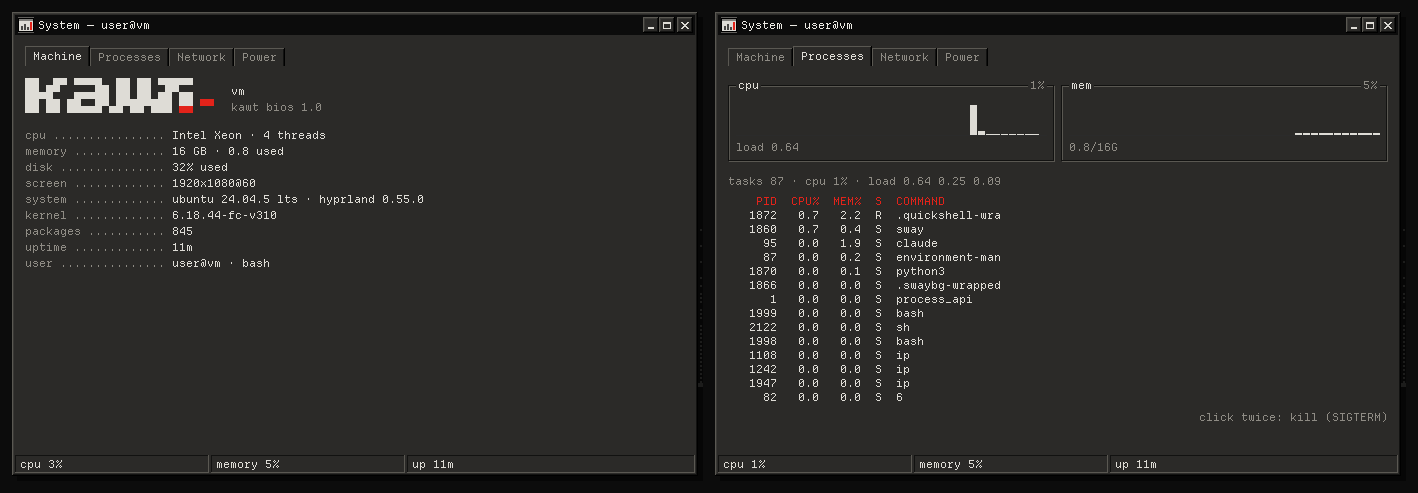
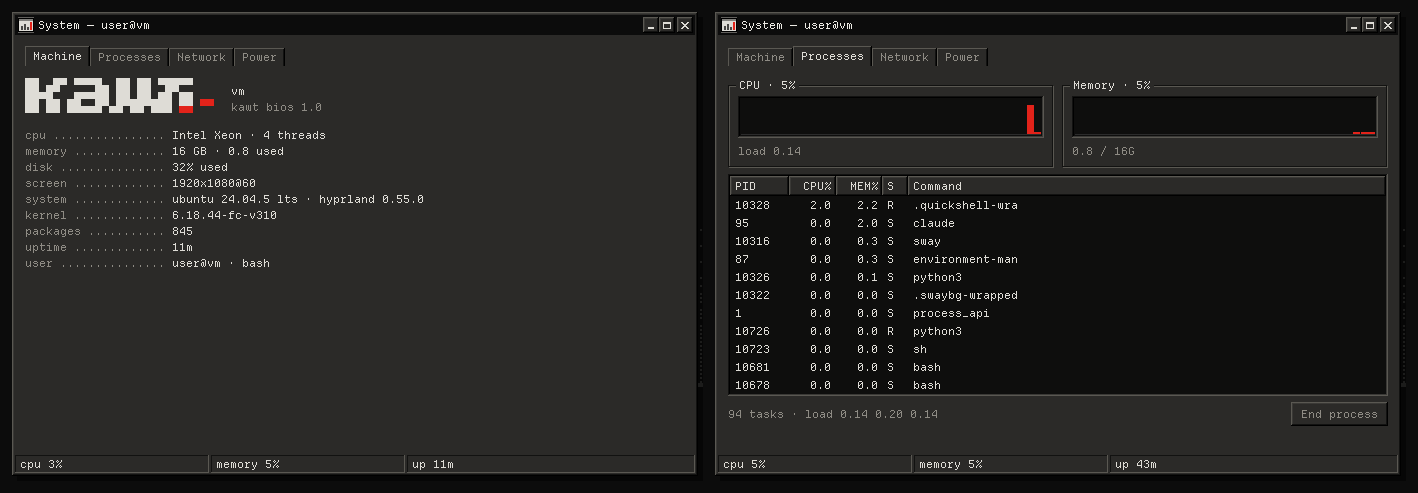
readme: the run box, the ai panel, help and keys, the monitors in the installer, fastfetch; new pictures

Changed region(s): [[0.4965, 0.1521, 0.9929, 0.8824]]

diff --git a/README.md b/README.md
@@ -85,13 +85,21 @@ windows the buttons give up their titles first, then the rest go into `+3 ▼`.
 and keys**, **AI**, **stripes**, and **Shut down…** at the bottom. Typing searches at once;
 `enter` on something not found runs it, or asks the ai.
 
-The launcher alone is `super + space`, with modes: apps · `!` run · `>` in terminal · `=`
-calculator · `?` ask the ai · `$` a command from the ai · `:` clipboard history · `;` open
-windows · `.` emoji. Typed in the wrong layout, it still finds it (`ашкуащч` → firefox). An
-app's own actions by name (`private` → Firefox: New Private Window); `ctrl + s` pins, `ctrl + o`
-starts an app without internet from then on. With `qalc` the calculator does units, currencies
-and dates (`=10 km to mi`, `=today + 3 weeks`; exchange rates only the ones qalc has: kawt
-never makes it go online).
+<p align="center">
+<img src="assets/run.png" alt="the run box: programs with the list of modes open; the calculator's answer big in the field" width="100%">
+</p>
+
+**The run box** (`super + space`) is the old Run window, in the middle of the screen: the mode
+is a drop-down list on the right of the field (`tab` the next one, `alt + ↓` the list), or a
+prefix typed straight in: `!` a command (`shift + enter` runs it in a terminal; the ones you ran
+come back as a history) · `=` the calculator · `?` a short answer from the ai (`enter` again:
+the whole talk in the ai panel) · `$` a command from the ai · `:` the clipboard, pictures with a
+preview · `;` open windows · `.` emoji. The calculator's and the ai's answers come big in the
+field, not as a line of a list; the status bar under it says what the keys do. Typed in the
+wrong layout, it still finds it (`ашкуащч` → firefox). An app's own actions by name (`private` →
+Firefox: New Private Window); `ctrl + s` pins, `ctrl + o` starts an app without internet from
+then on. With `qalc` the calculator does units, currencies and dates (`=10 km to mi`,
+`=today + 3 weeks`; exchange rates only the ones qalc has: kawt never makes it go online).
 
 ## Floating desks
 
@@ -143,7 +151,7 @@ the battery stops charging (full / 80% / 60%), the power profile, the keyboard l
 where the machine has it. `qs -c kawt-shell ipc call kawt window system net` opens it at a tab.
 
 <p align="center">
-<img src="assets/system.png" alt="system: the machine like a bios setup, and the processes with cpu and memory graphs" width="100%">
+<img src="assets/system.png" alt="system: the machine like a bios setup, and the processes in a table under the cpu and memory graphs, End process" width="100%">
 </p>
 
 **Settings** (`super + ,`) is one window too, its pages in a list on the left: look, bar, screen
@@ -219,31 +227,34 @@ gives her more, in english). Off in settings → kawt: then nothing runs for her
 <table>
 <tr>
 <td width="34%" valign="top">
-<img src="assets/ai-panel.png" alt="the ai panel: a local model, chat in the terminal look"><br>
+<img src="assets/ai-panel.png" alt="the ai panel: a window at the screen's edge, tabs, a chat with a code block to copy"><br>
 <sub>a local model: nothing leaves the machine</sub>
 </td>
 <td valign="top">
 
-`super + a` (or start → AI): chat with a local [ollama](https://ollama.com) model (or any
-OpenAI-compatible api), saved chats, markdown answers with code to copy, compare two models;
-models installed, pulled and unloaded from the panel, with limits so it doesn't eat the machine.
+`super + a` (or start → AI): a kawt window at the screen's edge (`□` makes it wide, with the
+project's files on the left), tabs **Chat · Chats · Models · Settings** (`ctrl + tab` walks
+them). Chat with a local [ollama](https://ollama.com) model (or any OpenAI-compatible api),
+saved chats, markdown answers with code to copy, compare two models; models installed, pulled
+and unloaded from the panel, with limits so it doesn't eat the machine.
 
-- `?question` in the launcher, `$what you want` for one shell command (it never runs by
-  itself), `super + alt + a` on the text you marked in any window
-- a screenshot's `[ask]` brings the picture to a model that sees
-- `[x] tasks` gives it your todo list ("what's on tomorrow?")
-- `super + alt + v`: speak, `whisper-cpp` writes it down on this machine
+- `?question` in the run box for a short answer, `$what you want` for one shell command (it
+  never runs by itself), `super + alt + a` on the text you marked in any window
+- **Copied:** Explain · Translate · Fix · Summary, one click on what's on the clipboard
+- a screenshot's **Ask AI** brings the picture to a model that sees
+- **my tasks** gives it your todo list ("what's on tomorrow?")
+- `super + alt + v`, or **Mic**: speak, `whisper-cpp` writes it down on this machine
 
 </td>
 </tr>
 </table>
 
 **coder**: an agent in one project folder. It lists, searches and reads; every change is a diff
-to `[apply]` or `[skip]`; commands (with `bubblewrap`) run only after `[run]`, in a sandbox
+to **Apply** or **Skip**; commands (with `bubblewrap`) run only after **Run**, in a sandbox
 without network where the project is the only place it can write, and what they changed is
 listed file by file (with `git`: kawt keeps its own copy in `~/.cache`, never touching the
-project's `.git`; what `.gitignore` hides isn't watched). `[changes]` shows every file it changed
-as a diff, each with its own `[undo]`; `[undo]` puts everything back.
+project's `.git`; what `.gitignore` hides isn't watched). **Changes** shows every file it changed
+as a diff, each with its own **Undo**; **Undo** puts everything back.
 
 ## Lock and boot
 
@@ -275,15 +286,16 @@ Once per login a bios-like check list runs (`kawt bios 1.0 ·` your machine: cpu
 | | |
 |---|---|
 | player | the tray's note while music plays (real sound with `cava`); click: the cover in big pixels, a level-meter spectrum, `|<` `||` `>|`, the position, shuffle, loop, the player's own volume, tabs when several play, this session's tracks |
-| screenshots | area / window / screen, the screen still while you pick; a preview asks `[copy]` `[save]` `[open]` `[edit]` (`satty`) `[text]` (`tesseract`) `[ask]` (the ai) |
+| screenshots | area / window / screen, the screen still while you pick; a small window in the corner: **Copy**, **Save**, **Open**, **Draw on it** (`satty`), **Text** (`tesseract`), **Ask AI** |
 | recording | the tray's red dot and the time; area or screen; sound: off, the mic, what you hear, or both |
-| osd | volume / brightness pop up; the charger in or out shows the battery; low battery at 20 / 10 / 5% |
+| osd | a raised plate with red segments for the volume and the brightness; the charger in or out shows the battery; low battery at 20 / 10 / 5% |
 | notifications | kawt is the daemon: a history, do not disturb, keeps what the app asks for (`notify-send -t`, `-e` transient, replace tags) |
 | theme export | a theme switch recolors open terminals and GTK apps live and rewrites colors for kitty, Hyprland's borders, GTK, foot, alacritty, shell scripts and kawt's folder icons; terminal colors as `crt`, `soft` or `vivid` |
-| fastfetch | your system's logo in its own colors (or the theme's), or kawt in blocks, the trackpoint, kawt in stripes; full keys, memory and disk as bars; nothing that says who or where you are, safe to screenshot |
+| fastfetch | `kawt · arch linux` on top, then the system in full words, memory and disk as bars; your system's logo in its own colors (or the theme's), kawt in blocks, the trackpoint, kawt in stripes, or a picture (stripes, `~/.face`, one of yours) dithered in the theme's tones, drawn by kitty; a narrow window gets the small logo. Nothing that says who or where you are, safe to screenshot |
 | prompt | zsh: the folder inverted like a bios's chosen line, the git branch on grey, a failed command's code on red, `>` in red where you type; hints from history, typos marked |
 | old machine | settings → look: no blur, shadows or animations, graphs half as often, no visualizer (a T60, an X200); `scanlines` for faint tube lines |
-| also | night light (`hyprsunset`), volume per app, brightness (on a desktop the monitors' own, over DDC/CI), the keyboard layout (one per window if you like), the keys of the whole desktop on `super + /` |
+| keys | `super + /`: every key of the desktop in a window, tabs **kawt · Hyprland · Inside kawt**, a search across all three |
+| also | night light (`hyprsunset`), volume per app, brightness (on a desktop the monitors' own, over DDC/CI), the keyboard layout (one per window if you like), a theme of your own (`super + w` → Theme → New…, a little desktop drawn in its colors as you type) |
 
 Works on a laptop and a desktop alike: what a machine doesn't have (a battery, a backlight,
 power profiles, charge thresholds, a keyboard light) simply doesn't show.
@@ -347,13 +359,20 @@ setup to a backup, every question again).
   the two binds kawt uses (`super + r`, `super + shift + s`)
 - keyboard layouts next to `us` (`alt + shift` switches; it offers the ones of your old config,
   or guesses from your language, `ru_RU` → `ru`), and the monitors: each at its best mode (the
-  biggest size, then its highest rate), side by side, drawn as a little map; or picked by hand,
-  each one by its name: its size, then its rate (or typed, `2560x1080@75`, `highrr`), or off,
-  its position, scale and turning; or left to Hyprland. They're written into `user.lua` as
-  `hl.monitor({ output, mode, position, scale })`, between two comment lines, easy to change by
-  hand. From a console it knows the sizes only; inside Hyprland the refresh rates too, and each
-  monitor is checked: one that didn't get the mode asked for is said. Again any time:
+  biggest size, then its highest rate, written out: `2560x1440@164.96`, not `preferred`, which
+  is often 60 Hz), or picked by hand: its size, then its rate, or off; the scale from how dense
+  the screen is (its size in the EDID: `27", 109 ppi → x1`), or 1 / 1.25 / 1.5 / 2; or left to
+  Hyprland. With two or more they're drawn side by side as a little map: `←→` moves one along
+  the row, `space` makes it the main one (★, desk 1 opens there); the positions come from the
+  order. They're written into `user.lua` as `hl.monitor({ output, mode, position, scale })`,
+  between two comment lines, easy to change by hand. Inside Hyprland each one is checked (one
+  that didn't get the mode asked for is said), then, as old systems' screen settings did:
+  **keep it like this? y / n**, and without a yes in 15 s it goes back as it was. From a console
+  it knows the sizes only: on its first start kawt sees if a monitor runs slower than it can
+  ("DP-1 runs at 60 Hz, it can do 165") and offers to set it. Again any time:
   `./install.sh --monitors`
+- kawt's pixel font (Departure Mono) linked into `~/.local/share/fonts/kawt` for GTK apps, and,
+  if you say so, for kitty too (small: 8.25 pt; `~/.config/kitty/kawt-font.conf`)
 - the first wallpaper, on a new install: kawt in stripes, the sunset, stripes herself, the bars,
   or none (picked first when hyprpaper, swaybg or the like still draws yours)
 - an NVIDIA card: offers Hyprland's environment for it (`hypr/nvidia.lua`: video decoding on
@@ -450,11 +469,15 @@ without it, only while `super + w` is open.
 
 ## Keys
 
+<p align="center">
+<img src="assets/keys.png" alt="help and keys: a window with tabs kawt, Hyprland, Inside kawt, a find field, every key and what it does" width="60%">
+</p>
+
 | | |
 |---|---|
-| `super + space` | launcher |
-| `super + r` | run a command |
-| `super + shift + v` | clipboard history |
+| `super + space` | the run box |
+| `super + r` | the run box for a command |
+| `super + shift + v` | the run box: clipboard history |
 | `super + d` | the start menu |
 | `super + a` | ai panel |
 | `super + alt + a` | the ai on the text you marked (any window, nothing copied): explain / translate / fix / summary, then copy, replace it, or go on in the chat |
@@ -466,13 +489,13 @@ without it, only while `super + w` is open.
 | `super + ctrl + v` | this desk: floating like KDE ↔ tiled |
 | `super + h` | call stripes out of the corner (again: let her go) |
 | `super + l` | lock screen (it also locks by itself: before sleep, and after 10 idle minutes; any time or off in settings → screen) |
-| `super + /` | all keys (read from `hypr/kawt.lua`, then the binds of your config that end with a `-- comment`: `hyprland.lua`, or `user.lua` and the standard config) |
+| `super + /` | help and keys: a window with every key (read from `hypr/kawt.lua`, then the binds of your config that end with a `-- comment`: `hyprland.lua`, or `user.lua` and the standard config), and the ones inside kawt; typing finds |
 | `super + shift + b` | tuck the bar away / back |
 | `super + escape` | shut down…: shut down / restart / sleep / log out / lock, with a 5 s countdown |
 | `print` / `super + shift + s` | screenshot of an area (`shift + print` screen, `alt + print` window), then copy / save in the corner |
 | `super + shift + r` / `super + alt + r` | record an area / the screen (same key again: stop) |
 
-In the launcher: `↑↓` select, `ctrl + s` pin, `ctrl + o` no internet for that app, `ctrl + tab` switch mode.
+In the run box: `↑↓` pick, `tab` the next mode, `alt + ↓` the modes, `shift + enter` a command in a terminal, `ctrl + s` pin, `ctrl + o` no internet for that app, `ctrl + d` forget (a command, a clip).
 In the todo: `j k` move, `x` done, `enter` open, `n` new, `r` how often, `f` focus on it.
 In `super + w`: arrows pick a wallpaper, `enter` sets it, `r` a random one, `t` dark ↔ light, `esc` puts back what was on.
 In today: `↑ ↓` pick, `x` done, `n` new, `enter` open it in tasks.
@@ -484,7 +507,7 @@ Everything is also reachable over IPC, for your own binds or a timer:
 `kawt volume up|down|mute`, `kawt mic mute`, `kawt brightness up|down|<percent>`,
 `kawt media toggle|next|prev|back|forward` (the player the bar shows), `kawt bar [show|hide]`,
 `kawt desk [float|tile|cascade]`, `kawt companion pet|call|sleep|wake|focus|walk|home|toggle`,
-`kawt focus [stop|pause]`, `kawt welcome` (the first start's tour again), `kawt selection`, `kawt voice`.
+`kawt focus [stop|pause]`, `kawt welcome` (the first start's tour again), `kawt theme new|edit` (the theme editor), `kawt selection`, `kawt voice`.
 The volume, mic, brightness and media ones are for the media keys: there is a ready block in
 `hypr/kawt.lua` (and `kawt.conf`) to uncomment, after removing your own XF86 binds. Through
 kawt, the osd shows at once.
@@ -549,7 +572,8 @@ quickshell/kawt-shell/   the shell        -> ~/.config/quickshell/kawt-shell
   modules/               what you see: the bar, the start menu, the panels, kawt's windows
                          (today, system, settings, wallpaper and theme), the lock, stripes
   components/            the parts they're made of (buttons, frames, fields, windows, icons)
-  fonts/                 Departure Mono (SIL OFL), kawt's pixel font
+  fonts/                 Departure Mono (SIL OFL), kawt's pixel font (-> ~/.local/share/fonts/kawt)
+  data/                  the emoji list, stripes' picture for fastfetch
   shaders/               stripes (stripes.frag, built into stripes.frag.qsb)
   scripts/               the shell scripts kawt runs
   hypr/kawt.lua          Hyprland binds   (loaded from hyprland.lua; kawt.conf for an old hyprland.conf)
